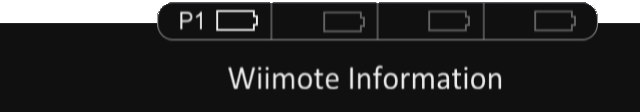
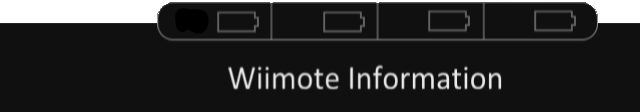
Battery Status is live! Remember that our /core/wpad.c and /core/wpad.h are now /core/wiipad.c and /core/wiipad.h AND the /libs/wiiuse/ files are now wiiusesvn.h and wpadsvn.h

Changed region(s): [[0.2812, 0.0804, 0.4062, 0.2946]]

diff --git a/CoverFlow/source/homemenu.c b/CoverFlow/source/homemenu.c
@@ -314,39 +314,37 @@ void HomeMenu_Destroy()
 	
 	//quit();
 }
-
 void Do_Batteries()
 {
     	#ifdef BATTMAN
-        wiimote** wiimotes;
-	int found, connected,i,x;
-/*
-        wiimotes =  wiiuse_init(MAX_WIIMOTES,5);
-     	found = wiiuse_find(wiimotes, MAX_WIIMOTES, 5);
-	connected = wiiuse_connect(wiimotes, MAX_WIIMOTES);
-*/
-
-/*
-        if(connected!=0) //we have wiimotes, at least one
-*/
+	int i,x;
+        u8 ret;
+        u8 level;
 
                 for(x = 0; x <= 3; x++)
                 {
-                        int level = (WPAD_BatteryLevel(x)/100)*4; //call only available in svn wiiuse
-                        if(level > 4) level = 4; //restrict to maximum bars
-                        if(level == 0)
-                        {
-                                GRRLIB_DrawImg(216+(106*x), 373, battery_dead, 0, 1, 1, 0xFFFFFFFF); //draw red battery
-                        }
-                        else
-                        {
-                                GRRLIB_DrawImg(216+(106*x), 373, battery, 0, 1, 1, 0xFFFFFFFF); //draw battery container
+                    ret = WPAD_BatteryLevel(x);
+                    level = (ret * 4)/100;
 
-                                for(i = 0; i <= level; i++)
-                                {
-                                        GRRLIB_DrawImg(216+((106*x)+(8*i)), 375, battery_bar, 0, 1, 1, 0xFFFFFFFF); //draw the bars
-                                }
-                        }
+                    if(level > 4) level = 4; //restrict to maximum bars
+                            if(ret!=0) //no wiimote here
+                            {
+                                    if(level == 0) //no power bars here
+                                    {
+                                                GRRLIB_Printf(185+(106*x), 375, font_title, 0x808080FF, 1, "P%d", x+1);
+                                                GRRLIB_DrawImg(216+(106*x), 373, battery_dead, 0, 1, 1, 0xFFFFFFFF); //draw red battery
+                                    }
+                                    else //we have power, but how much?
+                                    {
+                                            GRRLIB_Printf(185+(106*x), 375, font_title, 0x808080FF, 1, "P%d", x+1);
+                                            GRRLIB_DrawImg(216+(106*x), 373, battery, 0, 1, 1, 0xFFFFFFFF); //draw battery container
+
+                                        for(i = 0; i < level; i++)
+                                        {
+                                                GRRLIB_DrawImg(221+((107*x)+(8*i)), 377, battery_bar, 0, 1, 1, 0xFFFFFFFF); //draw the bars
+                                        }
+                                        }
+                            }
                 }
 
         #endif

diff --git a/CoverFlow/libs/wiiuse/include/wpadsvn.h b/CoverFlow/libs/wiiuse/include/wpadsvn.h
@@ -28,11 +28,11 @@ distribution.
 
 -------------------------------------------------------------*/
 
-#ifndef __WPAD_H__
-#define __WPAD_H__
+#ifndef __WPADSVN_H__
+#define __WPADSVN_H__
 
 #include <gctypes.h>
-#include <wiiuse/wiiuse.h>
+#include <wiiusesvn.h>
 
 #define WPAD_MAX_IR_DOTS						4
 											

diff --git a/CoverFlow/include/coverflow.h b/CoverFlow/include/coverflow.h
@@ -11,7 +11,7 @@
 #include <wiipad.h>
 #include <sys/dir.h>
 #include <ogc/lwp_watchdog.h>   // Needed for gettime and ticks_to_millisecs
-#include "wiipad.h"
+#include "wpadsvn.h"
 #include "wbfs.h"
 #include "wdvd.h"
 #include "libwbfs/libwbfs.h"

diff --git a/CoverFlow/include/core/wiipad.h b/CoverFlow/include/core/wiipad.h
@@ -1,7 +1,7 @@
 #ifndef _WIIPAD_H_
 #define _WIIPAD_H_
 
-#include <wiiuse/wpad.h>
+#include <wpadsvn.h>
 
 /* Prototypes */
 s32  Wpad_Init(void);

diff --git a/CoverFlow/libs/wiiuse/include/wiiusesvn.h b/CoverFlow/libs/wiiuse/include/wiiusesvn.h
@@ -1,5 +1,5 @@
-#ifndef __WIIUSE_H__
-#define __WIIUSE_H__
+#ifndef __WIIUSESVN_H__
+#define __WIIUSESVN_H__
 
 #if defined(_WIN32)
 	/* windows */

diff --git a/CoverFlow/include/homemenu.h b/CoverFlow/include/homemenu.h
@@ -1,7 +1,7 @@
 #ifndef _HomeMenu_H_
 #define _HomeMenu_H_
 
-//#define BATTMAN
+#define BATTMAN
 
 #include "coverflow.h"
 

diff --git a/CoverFlow/include/version.h b/CoverFlow/include/version.h
@@ -1,2 +1,2 @@
 #pragma once
-#define SVN_VERSION 323
+#define SVN_VERSION 347
